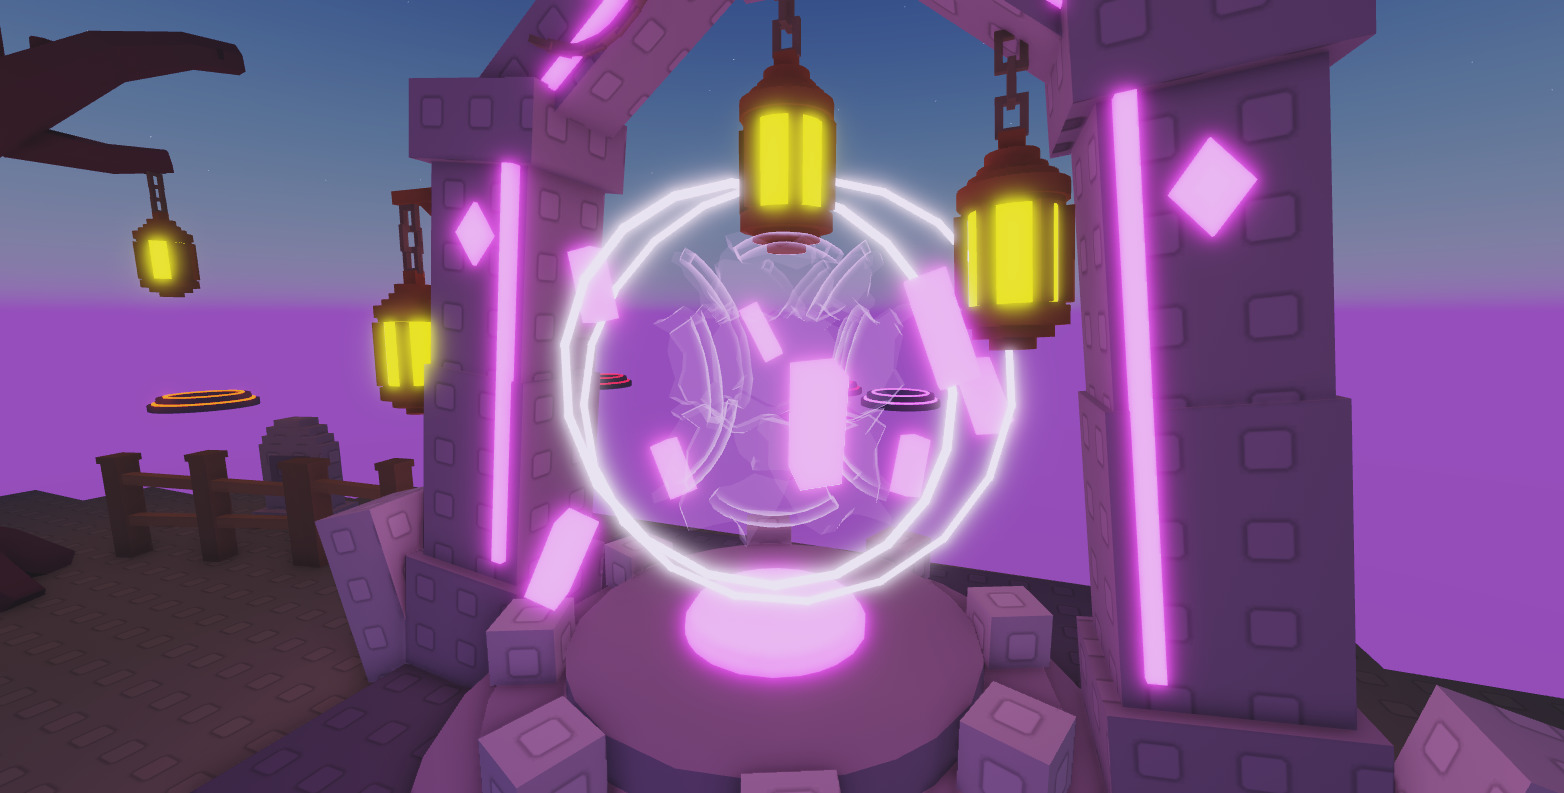
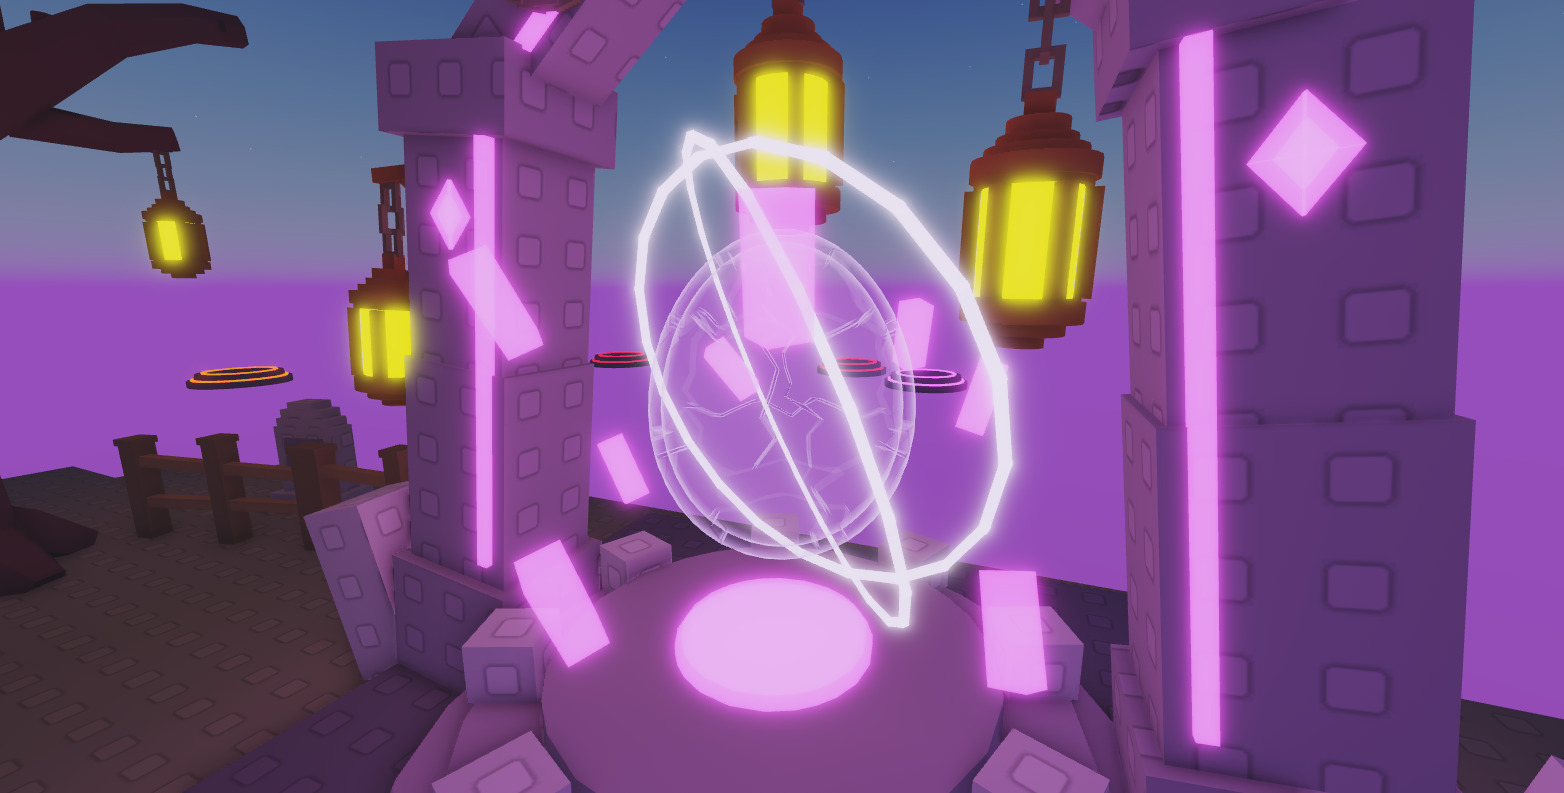
HOS-INC-001: egg pieces fit together again; Studio incubator test bench
- The 3D Importer turned every piece mesh 180 degrees about Y. Each baked
  piece now carries MeshTurn (applied by EggPieces); adopt() detects the
  turn by reading the uploaded mesh back. No re-import needed.
- HOS_IncubatorTestBench (Studio only): spawns you in front of the
  incubator with fragments to fly in; chat !shards [list|n], !full,
  !reset, !tp. A small client script turns you and the camera to the egg.
- Report: fixed screenshots, test bench section.

Claude-Session: https://claude.ai/code/session_01FqmUsGP8fanTbbcKNoggbe

diff --git a/docs/HOS-INC-001 Incubator.md b/docs/HOS-INC-001 Incubator.md
@@ -54,7 +54,9 @@ The game builds each piece from a baked mesh. A plugin can't upload meshes yet (
 
 Without the folder, the egg falls back to wedge parts in flat rarity colours.
 
-![In game, 7 of 18 pieces](HOS-INC-001/ingame_building_7of18.jpg)
+**Fixed 17 Oct (Matthew: "the eggs are not put together"):** the importer had turned every mesh 180° about Y, so each piece sat in its right spot but faced the wrong way. Reading the uploaded meshes back confirmed the same exact turn on all 18 (0.0000 stud miss). Each baked piece now has a `MeshTurn` attribute that `EggPieces` applies, and `adopt` detects the turn itself on any future import. No re-import was needed.
+
+![In game, 13 of 18 pieces, with the hologram dome on top](HOS-INC-001/ingame_building_13of18.jpg)
 ![In game, ready to hatch](HOS-INC-001/ingame_ready.jpg)
 
 ## Checks (Studio playtests)
@@ -74,7 +76,31 @@ Without the folder, the egg falls back to wedge parts in flat rarity colours.
 - **Hologram:** a ForceField copy of each piece mesh, 1% larger, in light lavender (225, 175, 255). It fades out as its piece snaps in and comes back after a hatch.
 
 ![Empty egg: all hologram](HOS-INC-001/ingame_hologram_empty.jpg)
-![Building: solid pieces at the bottom, hologram above](HOS-INC-001/ingame_building_hologram.jpg)
+
+## Test bench (Studio only)
+`ServerScriptService.HOS_IncubatorTestBench` (server) and `StarterPlayerScripts.HOS_IncubatorTestBenchCamera` (camera) do nothing outside Studio. Studio profiles live in their own datastore.
+
+When you press Play, the bench:
+- empties your egg (attribute `ResetOnPlay`)
+- gives you the fragments in the `Shards` attribute (default `common,rare,rare,epic,legendary`) as unseen fragments
+- puts you 17 studs in front of the incubator, facing it
+
+Walk up and they fly in.
+
+**Chat commands:**
+- `!shards`: give the `Shards` list again
+- `!shards epic legendary`: give those rarities
+- `!shards 5`: give 5 random fragments
+- `!full`: fill the egg to ready
+- `!reset`: empty the egg
+- `!tp`: go back in front of the incubator
+
+Fragments fly in when you walk up, so step away and come back after a command. Set the `Enabled` attribute to false to turn the bench off.
+
+Checked in a playtest:
+- **Spawn:** you start at the spot, facing the incubator, with 5 fragments waiting.
+- **Walk-up:** the fly-in placed 13 of 18 pieces and the screen opened.
+- **`!full`:** brought the fill to exactly 18. `DataService.update` runs its callback twice; the first version of the bench didn't account for that and gave double.
 
 ## Notes
 - **Why the pieces are baked:** building the pieces at runtime with EditableMesh worked in Studio, but a player's client ran out of its EditableMesh memory budget after 8 of the 18 pieces, and phones get less. Baked meshes have no such limit and don't need the "Allow Mesh / Image APIs" setting.
